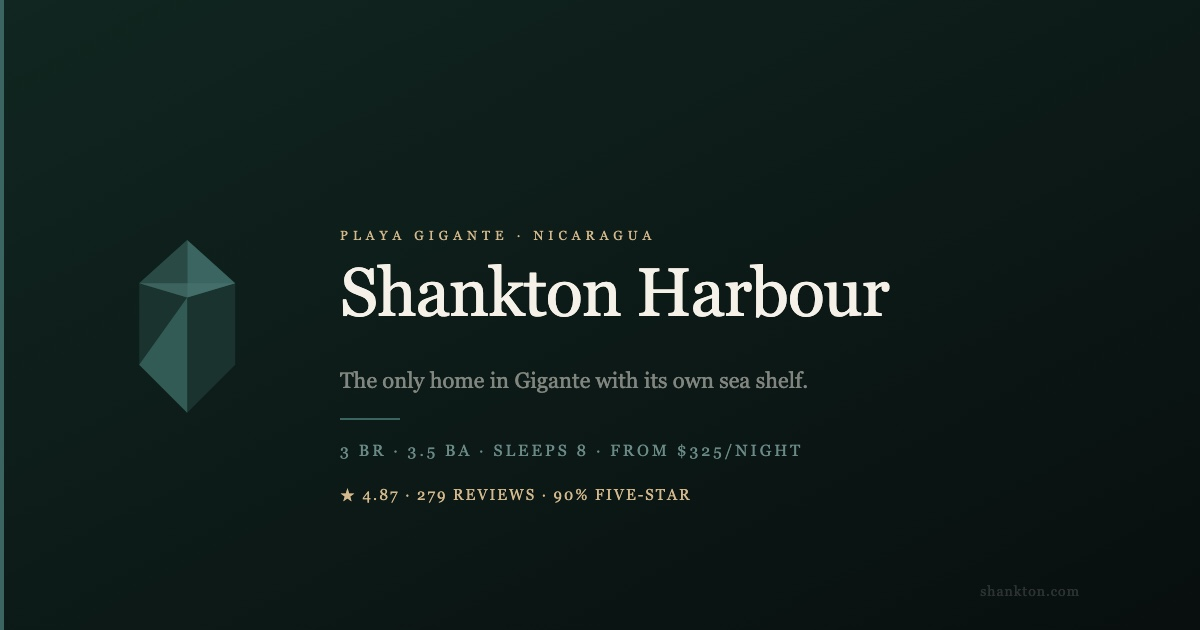
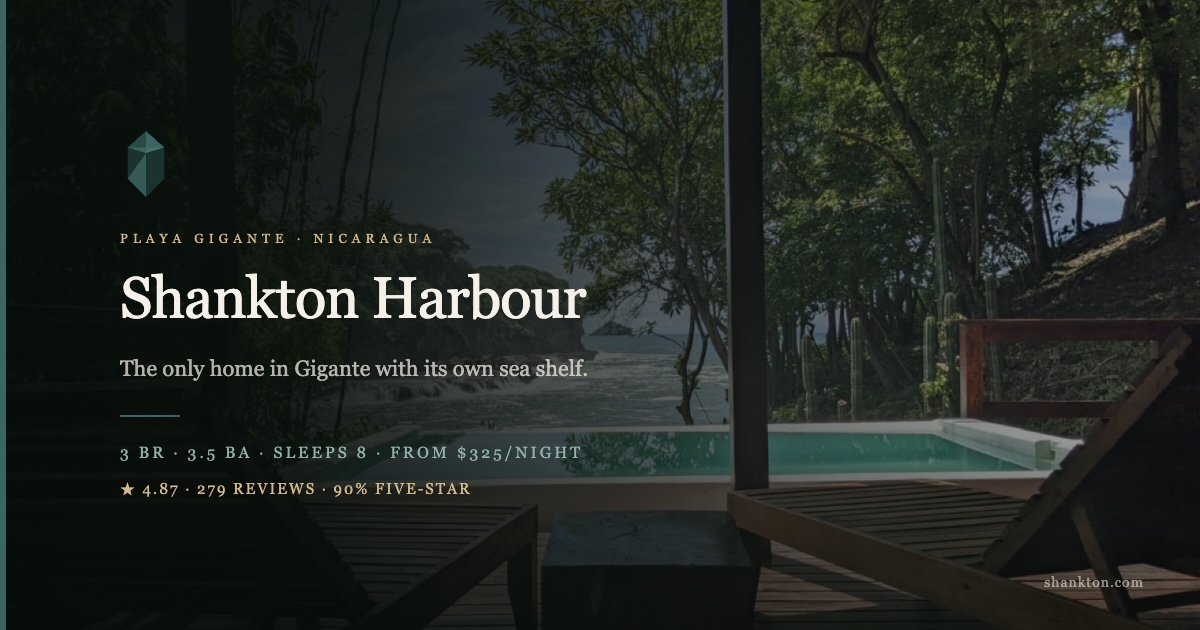
Redesign social share cards: photo-backed for all listings
Share previews (iMessage/social) were text-only dark cards with no
property photo. Rebuilt all 6 as full-bleed property photos with the
branded text over a dark scrim — far more clickable.

- Tower -> infinity pool, Harbour -> pool/sea shelf, Peninsula -> roof
  deck, Nicaragua/California region cards, and the home card
- Same Georgia/emerald/sand brand aesthetic, 1200x630, logo + specs +
  rating preserved from the old cards
- Added scripts/generate-og-cards.py so cards are reproducible
- Retired the stale text-only og-*.svg sources

diff --git a/scripts/generate-og-cards.py b/scripts/generate-og-cards.py
@@ -1,0 +1,107 @@
+#!/usr/bin/env python3
+import os, subprocess, string
+
+ROOT = "/Users/picklerick/shankton-website"
+CHROME = "/Applications/Google Chrome.app/Contents/MacOS/Google Chrome"
+
+CARDS = [
+    dict(slug="tower", photo="images/nica/tower/pool-infinity.jpg",
+         eyebrow="PLAYA GIGANTE · NICARAGUA", title="Shankton Tower",
+         tagline="Four floors over the Pacific. Cliff-edge pool. Sleeps twelve.",
+         specs="4 BR + BUNK · 4 BA · SLEEPS 12 · FROM $385/NIGHT",
+         rating="★ 4.79 · 293 REVIEWS · 84% FIVE-STAR"),
+    dict(slug="harbour", photo="images/nica/harbour/pool-chairs-sunny.jpg",
+         eyebrow="PLAYA GIGANTE · NICARAGUA", title="Shankton Harbour",
+         tagline="The only home in Gigante with its own sea shelf.",
+         specs="3 BR · 3.5 BA · SLEEPS 8 · FROM $325/NIGHT",
+         rating="★ 4.87 · 279 REVIEWS · 90% FIVE-STAR"),
+    dict(slug="peninsula", photo="images/lgb/a/rooftop-full.jpg",
+         eyebrow="BELMONT SHORE · LONG BEACH, CA", title="Shankton Peninsula",
+         tagline="Two suites. Roof decks. Fifty meters to sand.",
+         specs="UNIT A 2BR · UNIT B 3BR · SLEEPS 6 EACH",
+         rating="★ 4.89 · 354 REVIEWS · 9.9/10 ON BOOKING"),
+    dict(slug="nicaragua", photo="images/nica/tower/pool-terrace-view.jpg",
+         eyebrow="PACIFIC COAST · NICARAGUA", title="Where the water runs emerald.",
+         tagline="",
+         specs="HARBOUR · TOWER · PLAYA GIGANTE",
+         rating="568+ reviews · Same crew for a decade"),
+    dict(slug="california", photo="images/lgb/a/rooftop-skyline.jpg",
+         eyebrow="BELMONT SHORE · LONG BEACH, CA", title="Between the bay and the Pacific.",
+         tagline="",
+         specs="SHANKTON PENINSULA · 2 UNITS · SLEEPS 12",
+         rating="4.89★ · 9.9/10 on Booking · 50m to sand"),
+    dict(slug="home", photo="images/nica/harbour/deck-cove-sunny.jpg",
+         eyebrow="SHANKTON PROPERTIES", title="Where the Pacific runs emerald.",
+         tagline="Rare places, pro tips, local hosts.",
+         specs="NICARAGUA  ·  CALIFORNIA",
+         rating=""),
+]
+
+TPL = string.Template("""<!DOCTYPE html><html><head><meta charset="utf-8"><style>
+  * { margin:0; padding:0; box-sizing:border-box; }
+  html,body { width:1200px; height:630px; overflow:hidden; }
+  .card { position:relative; width:1200px; height:630px; background:#060c08; font-family:Georgia,'Times New Roman',serif; }
+  .photo { position:absolute; inset:0; background:url('file://$photo') center/cover no-repeat; }
+  .scrim { position:absolute; inset:0; background:
+     linear-gradient(102deg, rgba(6,12,8,0.96) 0%, rgba(6,12,8,0.90) 28%, rgba(6,12,8,0.58) 60%, rgba(6,12,8,0.22) 100%),
+     linear-gradient(0deg, rgba(6,12,8,0.55) 0%, rgba(6,12,8,0) 40%); }
+  .bar { position:absolute; left:0; top:0; bottom:0; width:6px; background:#3A6560; }
+  .content { position:absolute; left:120px; top:0; height:630px; width:640px; display:flex; flex-direction:column; justify-content:center; }
+  .logo { margin-bottom:34px; }
+  .eyebrow { font-size:13px; letter-spacing:5px; color:#D4B98C; margin-bottom:22px; }
+  .title { font-size:${titlesize}px; line-height:1.04; color:#F5F1E8; letter-spacing:-1px; font-weight:normal; }
+  .tagline { font-size:22px; color:rgba(245,241,232,0.72); margin-top:26px; line-height:1.4; max-width:560px; }
+  .divider { width:60px; height:2px; background:#3A6560; margin:30px 0 26px; }
+  .specs { font-size:16px; letter-spacing:3px; color:#8FB0AB; }
+  .rating { font-size:15px; letter-spacing:2px; color:#D4B98C; margin-top:16px; }
+  .site { position:absolute; right:56px; bottom:40px; font-size:14px; letter-spacing:1px; color:rgba(245,241,232,0.55); }
+</style></head><body>
+  <div class="card">
+    <div class="photo"></div>
+    <div class="scrim"></div>
+    <div class="bar"></div>
+    <div class="content">
+      <svg class="logo" width="52" height="66" viewBox="0 0 56 72" fill="none" xmlns="http://www.w3.org/2000/svg">
+        <polygon points="28,0 48,18 48,52 28,72 8,52 8,18" fill="#1A332F"/>
+        <polygon points="28,0 48,18 28,24" fill="#3A6560"/>
+        <polygon points="28,0 8,18 28,24" fill="#2A4A45"/>
+        <polygon points="8,52 28,24 28,72" fill="#3A6560" opacity="0.8"/>
+        <polygon points="28,24 8,18 48,18" fill="#4A7570" opacity="0.6"/>
+      </svg>
+      <div class="eyebrow">$eyebrow</div>
+      <div class="title">$title</div>
+      $tagline_html
+      <div class="divider"></div>
+      <div class="specs">$specs</div>
+      $rating_html
+    </div>
+    <div class="site">shankton.com</div>
+  </div>
+</body></html>""")
+
+for c in CARDS:
+    photo_abs = os.path.join(ROOT, c["photo"])
+    titlesize = 58 if len(c["title"]) <= 22 else 52
+    tagline_html = f'<div class="tagline">{c["tagline"]}</div>' if c["tagline"] else ""
+    rating_html = f'<div class="rating">{c["rating"]}</div>' if c["rating"] else ""
+    html = TPL.substitute(photo=photo_abs, eyebrow=c["eyebrow"], title=c["title"],
+                          titlesize=titlesize, tagline_html=tagline_html,
+                          specs=c["specs"], rating_html=rating_html)
+    htmlpath = f"/tmp/og_{c['slug']}.html"
+    pngpath = f"/tmp/og_{c['slug']}.png"
+    jpgpath = os.path.join(ROOT, f"img/og-{c['slug']}.jpg")
+    with open(htmlpath, "w") as f:
+        f.write(html)
+    subprocess.run([CHROME, "--headless=new", "--hide-scrollbars", "--force-device-scale-factor=1",
+                    "--window-size=1200,630", f"--screenshot={pngpath}", f"file://{htmlpath}"],
+                   check=True, capture_output=True)
+    subprocess.run(["sips", "-s", "format", "jpeg", "-s", "formatOptions", "88", pngpath, "--out", jpgpath],
+                   check=True, capture_output=True)
+    dims = subprocess.run(["sips", "-g", "pixelWidth", "-g", "pixelHeight", jpgpath],
+                          capture_output=True, text=True).stdout
+    w = [l.split(":")[1].strip() for l in dims.splitlines() if "pixelWidth" in l]
+    h = [l.split(":")[1].strip() for l in dims.splitlines() if "pixelHeight" in l]
+    sz = os.path.getsize(jpgpath) // 1024
+    print(f"  ok  og-{c['slug']}.jpg  {w[0]}x{h[0]}  {sz}KB")
+
+print("done")
